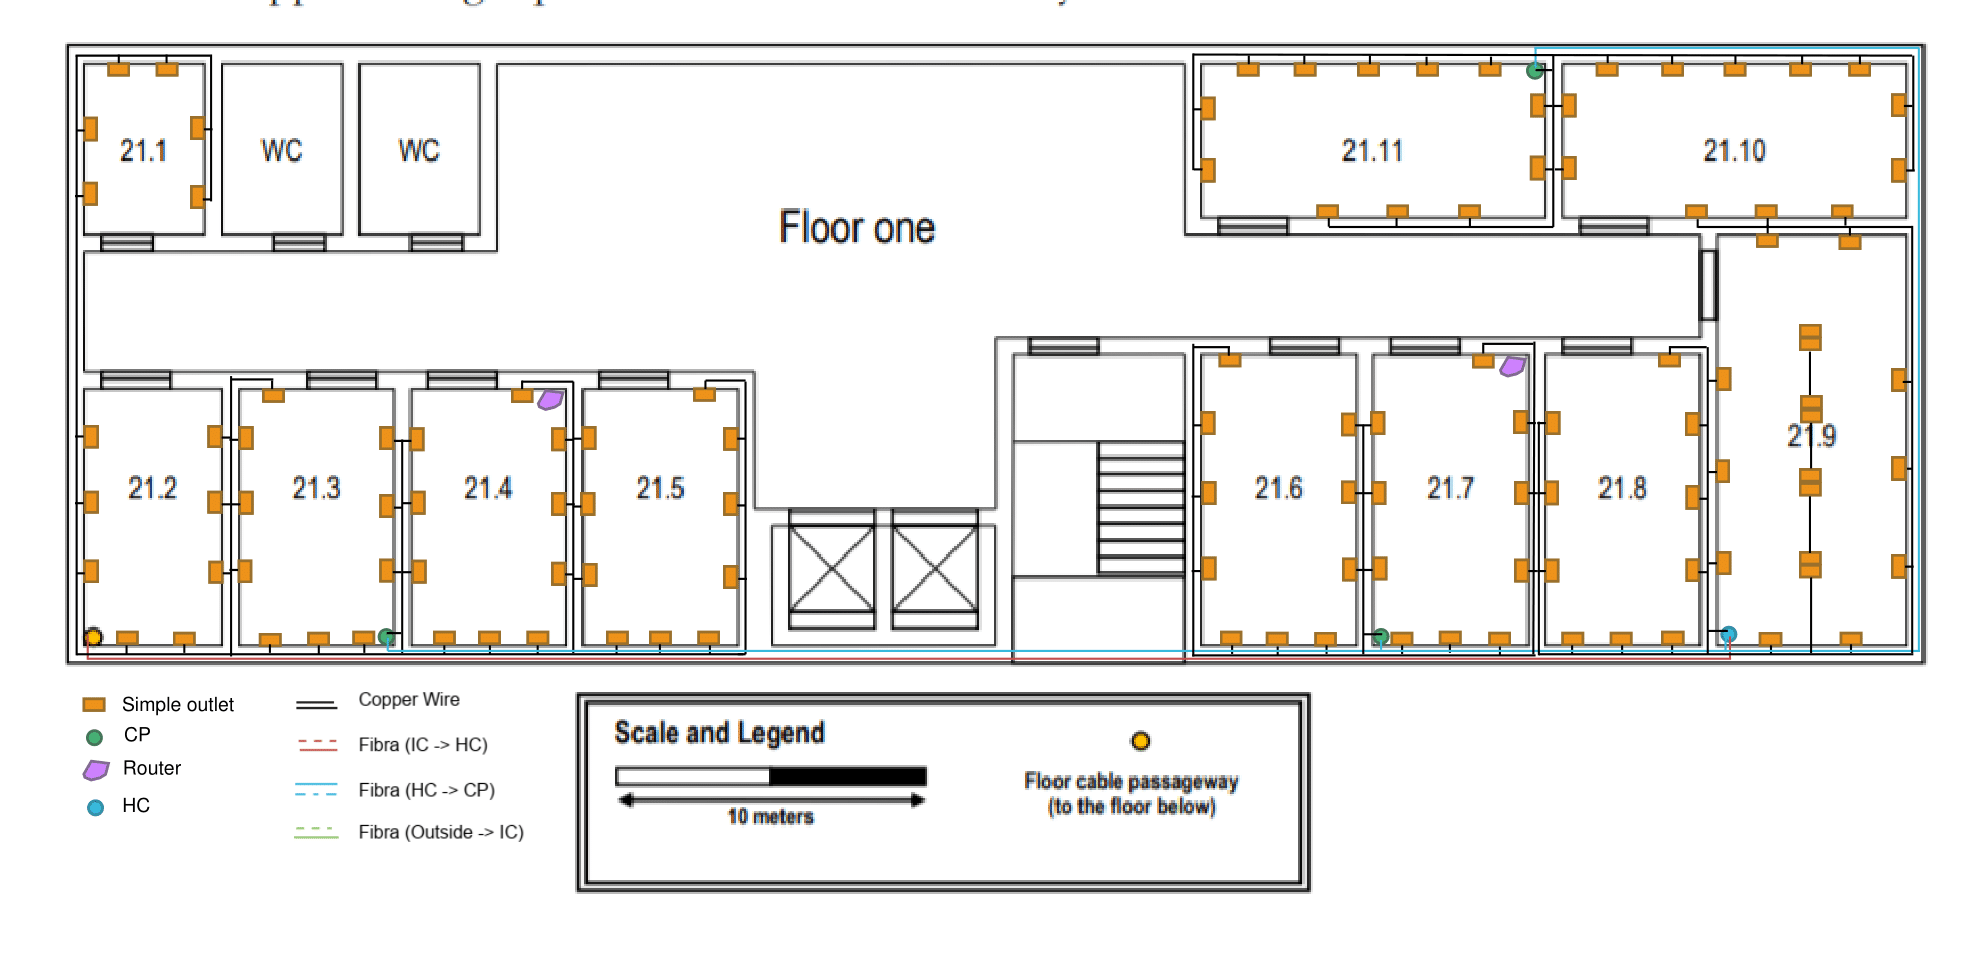
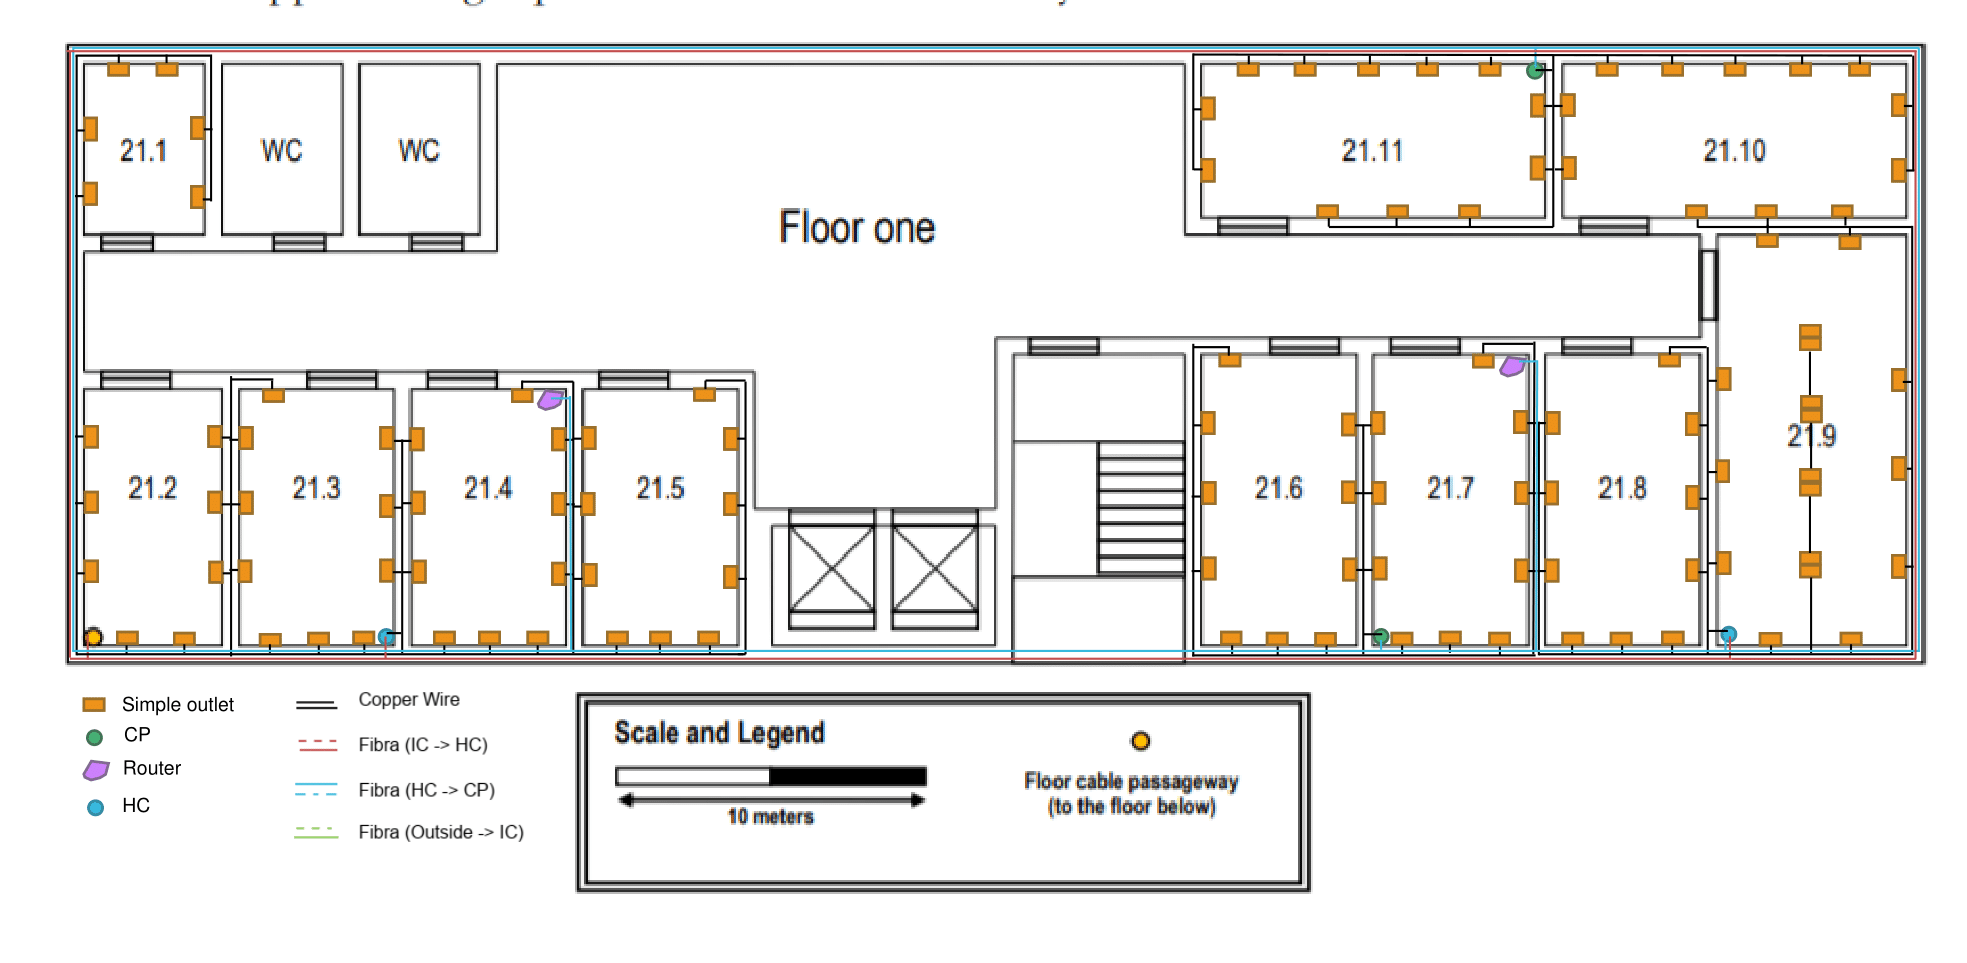
Cablagem medida e notas acrescentadas.

diff --git a/doc/sprint1/1190743/README.md b/doc/sprint1/1190743/README.md
@@ -4,9 +4,16 @@ RCOMP 2019-2020 Project - Sprint 1 - Member 1190743 folder
 ## Edifício B
 
 Para este projeto, fiquei encarregue de cobrir o Edifício B.
-Os Access Points estão distribuidos de maneira a cobrir totalmente o edifício,
-no piso 1 existem 3 AP devido à necessidade de atravessar um grande número de
-obstáculos. 
+Este edifício, em termos de quantidade de cabo e tomadas é reduzido em relação ao resto dos edifícios deste projeto.
+
+
+### Pressupostos:
+* Cabo de categoria 100GbaseSR10 será utilizado entre o IC e os HCs de cada edifício.
+* Cabo de categoria 40GbaseSR4 será utilizado entre os HCs e os CPs e APs.
+* Cabo de categoria CAT6A será utilizado entre as ethernet outlets e os utilizadores finais.
+* A difusão da rede pelos Access Points não sofre atenuação das paredes. Assim sendo, dadas as dimensões do edifício, são necessários 2 por piso, de modo a cobrir totalmente o edifício.
+* Pelo facto de os Access Points receberem rede por fibra ótica, terão de ser alimentados eletricamente dado não ser possível utilizar PoE (Power over Ethernet).
+
 
 ## Piso 0 (Ground Floor)
 
@@ -22,25 +29,45 @@ obstáculos.
 | 20.4    | 2,4     | 5,35    | 8,27   | 18,62  | 153,99 | 32      |
 | Desk    | 2,4     | 0,5     | 8,27   | 1,37   | 11,33  | 4       |
 
+
 ### Inventário:
 * 1 IC
 * 1 HC:
-    * 2 Switch Fibra Ótica 48 Portas
-    * 2 Patch Panel Fibra Ótica 48 portas
+    * 1 Switch Fibra Ótica 24 Portas
+    * 1 Patch Panel Fibra Ótica 24 portas
+    * 1 Switch Panel Cobre 48 Portas
+    * 1 Patch Panel Cobre 48 Portas
 * 2 CP:
     * 2 Switch 48 portas
     * 2 Patch Panel 48 portas
 * 82 outlets
+* 1500m cable CAT6A
+* 450m cable Fibra 40GbaseSR4
+
+###Notas:
+
+* No HC existem 2 Switch e 2 Patch Panel de modo a conseguir distribuir cobre e fibra para os pontos necessários.
+* Os CPs acima apresentados têm 1 Switch e um Patch Panel cada, apenas aparecem em como 2 de modo a generalizar.
+* Como redundância, serão sempre 2 cabos em vez de um na fibra, apesar de passarem pelo mesmo sítio.
+Outro caminho foi considerado desnecessário uma vez que a cablagem é passada por baixo do edifício.
+A medição destes mesmos cabos aparece na tabela abaixo com fundo verde e foram contabilizados no valor total.  
+* Apesar a área total do piso ser de 1200m2, não foi necessária a colocação de 2 Horizontal Cross-Connects uma vez que apenas metade edifício recorre a cablagem e tomadas.
+
+
+![Cablagem_Piso0](Cablagem_Piso0.png)
 
 ## Piso 1
 
 ![Piso_1](GroundOne.png)
 
+Neste edifício, toda a cablagem é feita pelo telhado falso, este que fica a 2,5m do chão e o cabo de fibra que vem do piso debaixo foi contabilizado em termos de tamanho.
+Ainda que a ligação a tomadas no teto seja desagradável, todas elas foram lá colocadas. Se fosse necessário agradar ao cliente, seria apenas necessário acrescentar 2.5m a todas as tomadas de modo a estas ficarem no chão. Descartou-se esta possibilidade para um menor uso de cablagem.
+
 ### Medidas:
 
 |         | C_real (m) | L_real (m) | Área (m²) | Outlets |
 |---------|--------|--------|--------|---------|
-| B1      | 60     | 20     | 1172   | 116     |
+| B1      | 60     | 20     | 1200   | 116     |
 | 21.1    | 3,8    | 5,5    | 20,9   | 6       |
 | 21.2    | 4,48   | 8,27   | 37,05  | 8       |
 | 21.3    | 5      | 8,27   | 41,35  | 10      |
@@ -54,13 +81,32 @@ obstáculos.
 | 21.11   | 11,03  | 4,83   | 53,28  | 12      |
 
 ### Inventário:
-* 1 HC:
-    * 2 Switch Fibra Ótica 48 Portas
-    * 2 Patch Panel Fibra Ótica 48 portas
-* 3 CP:
+* 1 HC (Sala 21.9):
+    * 1 Switch Fibra Ótica 24 Portas
+    * 1 Patch Panel Fibra Ótica 24 portas
+    * 1 Switch Cobre 48 portas
+    * 1 Patch Panel Cobre 48 portas
+* 1 HC (Sala 21.3):
+    * 1 Switch Cobre 48 portas
+    * 1 Patch Panel Cobre 48 portas  
+* 2 CP:
     * 2 Switch 24 portas
     * 2 Patch Panel 24 portas
-    * 1 Switch 48 portas
-    * 1 Patch Panel 48 portas
 * 116 outlets
+* 1200m cable cat6A
+* 1000m cable Fibra 40GbaseSR4
+
+###Notas:
+
+* No HC da sala 21.9 existem 2 Switch e 2 Patch Panel de modo a conseguir distribuir cobre e fibra para os pontos necessários.
+* No HC da sala 21.3 apenas existe 1 de cada uma vez que só cobre é utilizado na cablagem das ligações.  
+* Os CPs acima apresentados têm 1 Switch e um Patch Panel cada, apenas aparecem em como 2 de modo a generalizar.
+* Como redundância, serão sempre 2 cabos em vez de um na fibra, apesar de passarem pelo mesmo sítio.
+  O outro caminho utilizado foi à volta do edifício, levando a cabos de fibra com uma distância maior e aumentando significativamente o orçamento e a totalidade de metros de fibra utilizados.
+  A medição destes mesmos cabos aparece na tabela abaixo com fundo verde e foram contabilizados no valor total.
+* Neste piso já foi necessária a utilização de 2 Horizontal Cross-Connects.
+
+
+
+![Cablagem_Piso1](Cablagem_Piso1.png)
 
